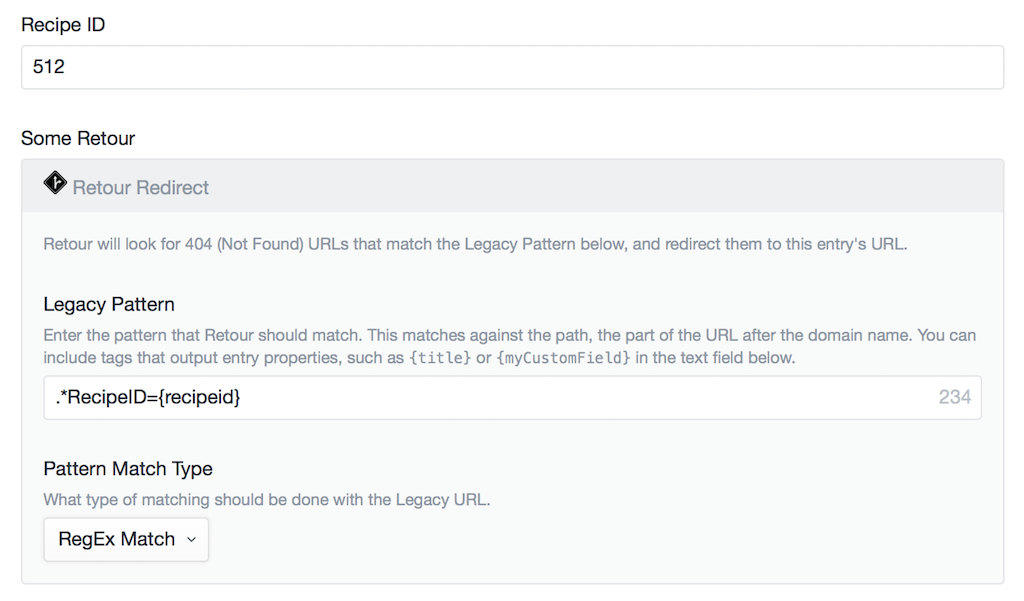
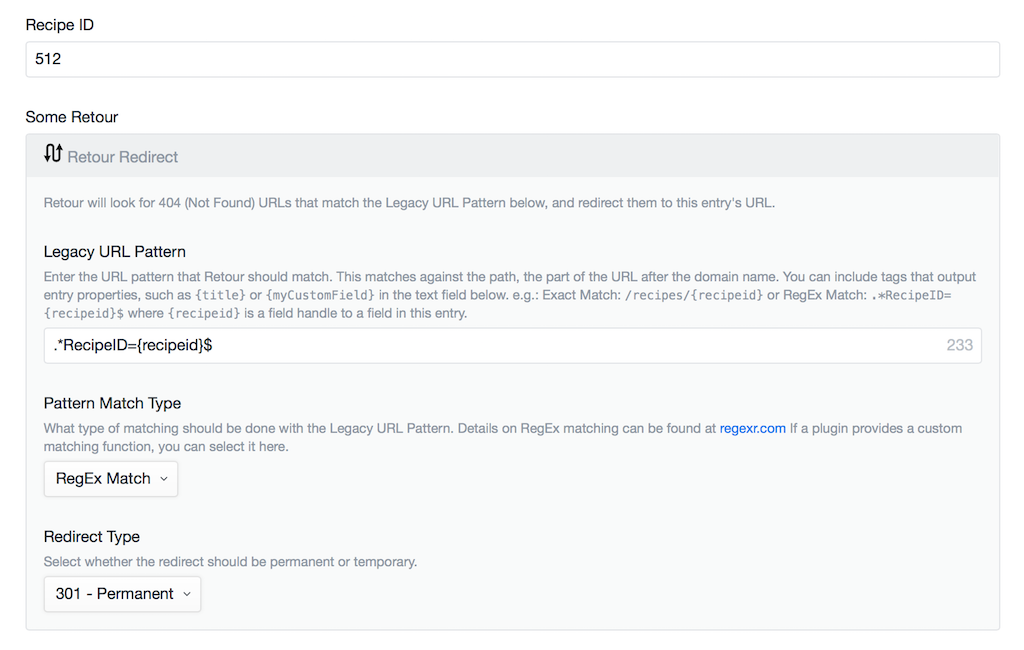
Version 1.0.2

Changed region(s): [[0.0312, 0.3594, 0.9688, 0.9285], [0.0, 0.1498, 0.75, 0.3295], [0.0, 0.03, 0.125, 0.1198]]

diff --git a/migrations/m160426_020311_retour_FixIndexes.php b/migrations/m160426_020311_retour_FixIndexes.php
@@ -1,0 +1,27 @@
+<?php
+namespace Craft;
+
+/**
+ * The class name is the UTC timestamp in the format of mYYMMDD_HHMMSS_pluginHandle_migrationName
+ */
+class m160426_020311_retour_FixIndexes extends BaseMigration
+{
+	/**
+	 * Any migration code in here is wrapped inside of a transaction.
+	 *
+	 * @return bool
+	 */
+	public function safeUp()
+	{
+
+        craft()->db->createCommand()->dropIndex('retour_redirects', 'redirectSrcUrl', true);
+        craft()->db->createCommand()->createIndex('retour_redirects', 'redirectSrcUrlParsed', true);
+
+        craft()->db->createCommand()->dropIndex('retour_static_redirects', 'redirectSrcUrl', true);
+        craft()->db->createCommand()->createIndex('retour_static_redirects', 'redirectSrcUrlParsed', true);
+
+        RetourPlugin::log("Updated Indexes for retour_redirects & retour_static_redirects", LogLevel::Info, true);
+
+		return true;
+	}
+}

diff --git a/services/RetourService.php b/services/RetourService.php
@@ -323,7 +323,9 @@ class RetourService extends BaseApplicationComponent
         {
             $result = new Retour_RedirectsRecord;
             $result->setAttributes($redirectsModel->getAttributes(), false);
-            return $result->save();
+            $result->save();
+            $error = $result->getErrors();
+            RetourPlugin::log(print_r($error, true), LogLevel::Info, false);
         }
     } /* -- createRedirect */
 

diff --git a/fieldtypes/RetourFieldType.php b/fieldtypes/RetourFieldType.php
@@ -198,11 +198,7 @@ class RetourFieldType extends BaseFieldType
     public function onAfterElementSave()
     {
         $fieldHandle = $this->model->handle;
-
-        if (empty($fieldHandle))
-        {
-            $this->prepValueFromPost(null);
-        }
+        $this->prepValueFromPost(null);
 
         parent::onAfterElementSave();
     }

diff --git a/records/Retour_RedirectsRecord.php b/records/Retour_RedirectsRecord.php
@@ -51,7 +51,7 @@ class Retour_RedirectsRecord extends BaseRecord
     {
         return array(
             array('columns' => array('locale', 'associatedEntryId')),
-            array('columns' => array('redirectSrcUrl'), 'unique' => true)
+            array('columns' => array('redirectSrcUrlParsed'), 'unique' => true)
         );
     }
 

diff --git a/records/Retour_StaticRedirectsRecord.php b/records/Retour_StaticRedirectsRecord.php
@@ -50,7 +50,7 @@ class Retour_StaticRedirectsRecord extends BaseRecord
     {
         return array(
             array('columns' => array('locale', 'id')),
-            array('columns' => array('redirectSrcUrl'), 'unique' => true)
+            array('columns' => array('redirectSrcUrlParsed'), 'unique' => true)
         );
     }
 

diff --git a/RetourPlugin.php b/RetourPlugin.php
@@ -99,7 +99,7 @@ class RetourPlugin extends BasePlugin
      */
     public function getSchemaVersion()
     {
-        return '1.0.0';
+        return '1.0.1';
     }
 
     /**

diff --git a/README.md b/README.md
@@ -28,7 +28,7 @@ Don't just rebuild a website. Transition it with Retour.
 
 ## Dynamic Entry Redirects
 
-Retour implements a Retour FieldType that you can add to your Entry Types.  Retour will look for 404 (Not Found) URLs that match the Legacy URL Pattern, and redirect them to this entry's URL.
+Retour implements a Retour Redirect FieldType that you can add to your Entry Types.  Retour will look for 404 (Not Found) URLs that match the Legacy URL Pattern, and redirect them to this entry's URL.
 
 You also get the context of the `entry` that you can use when matching legacy URLs; so if you've imported a field called `recipeid` into your new website, you can the Retour Redirect FieldType look for it in your Legacy URL Pattern, e.g.: `/old-recipes/{recipeid}`
 
@@ -36,9 +36,11 @@ This allows you to can key off of a piece of legacy data that was imported, for 
 
 ![Screenshot](resources/screenshots/retour02.png)
 
-* **Legacy URL Pattern** - Enter the URL pattern that Retour should match. This matches against the path, the part of the URL after the domain name. You can include tags that output entry properties, such as `{title}` or `{myCustomField}` in the text field below. e.g.: Exact Match: /recipes/{recipeid} or RegEx Match: `.*RecipeID={recipeid}` where `{recipeid}` is a field handle to a field in this entry.
+* **Legacy URL Pattern** - Enter the URL pattern that Retour should match. This matches against the path, the part of the URL after the domain name. You can include tags that output entry properties, such as `{title}` or `{myCustomField}` in the text field below. e.g.: Exact Match: /recipes/{recipeid} or RegEx Match: `.*RecipeID={recipeid}$` where `{recipeid}` is a field handle to a field in this entry.
 * **Pattern Match Type** - What type of matching should be done with the Legacy URL Pattern. Details on RegEx matching can be found at [regexr.com](http://regexr.com) If a plugin provides a custom matching function, you can select it here.
 * **Redirect Type** - Select whether the redirect should be permanent or temporary.
+
+Note: if you add a Retour Redirect FieldType to an existing Section, or you import data from a foreign source into a Section with a Retour Redirect FieldType, the default values you set for the Retour Redirect FieldType will not be propagated to the entry yet.  To cause that to happen, go to **Settings->Sections->** then click on the Section to edit it, and hit **Save**.  This will cause all of the entries in that section to be re-saved.
 
 ## Static Redirects
 
